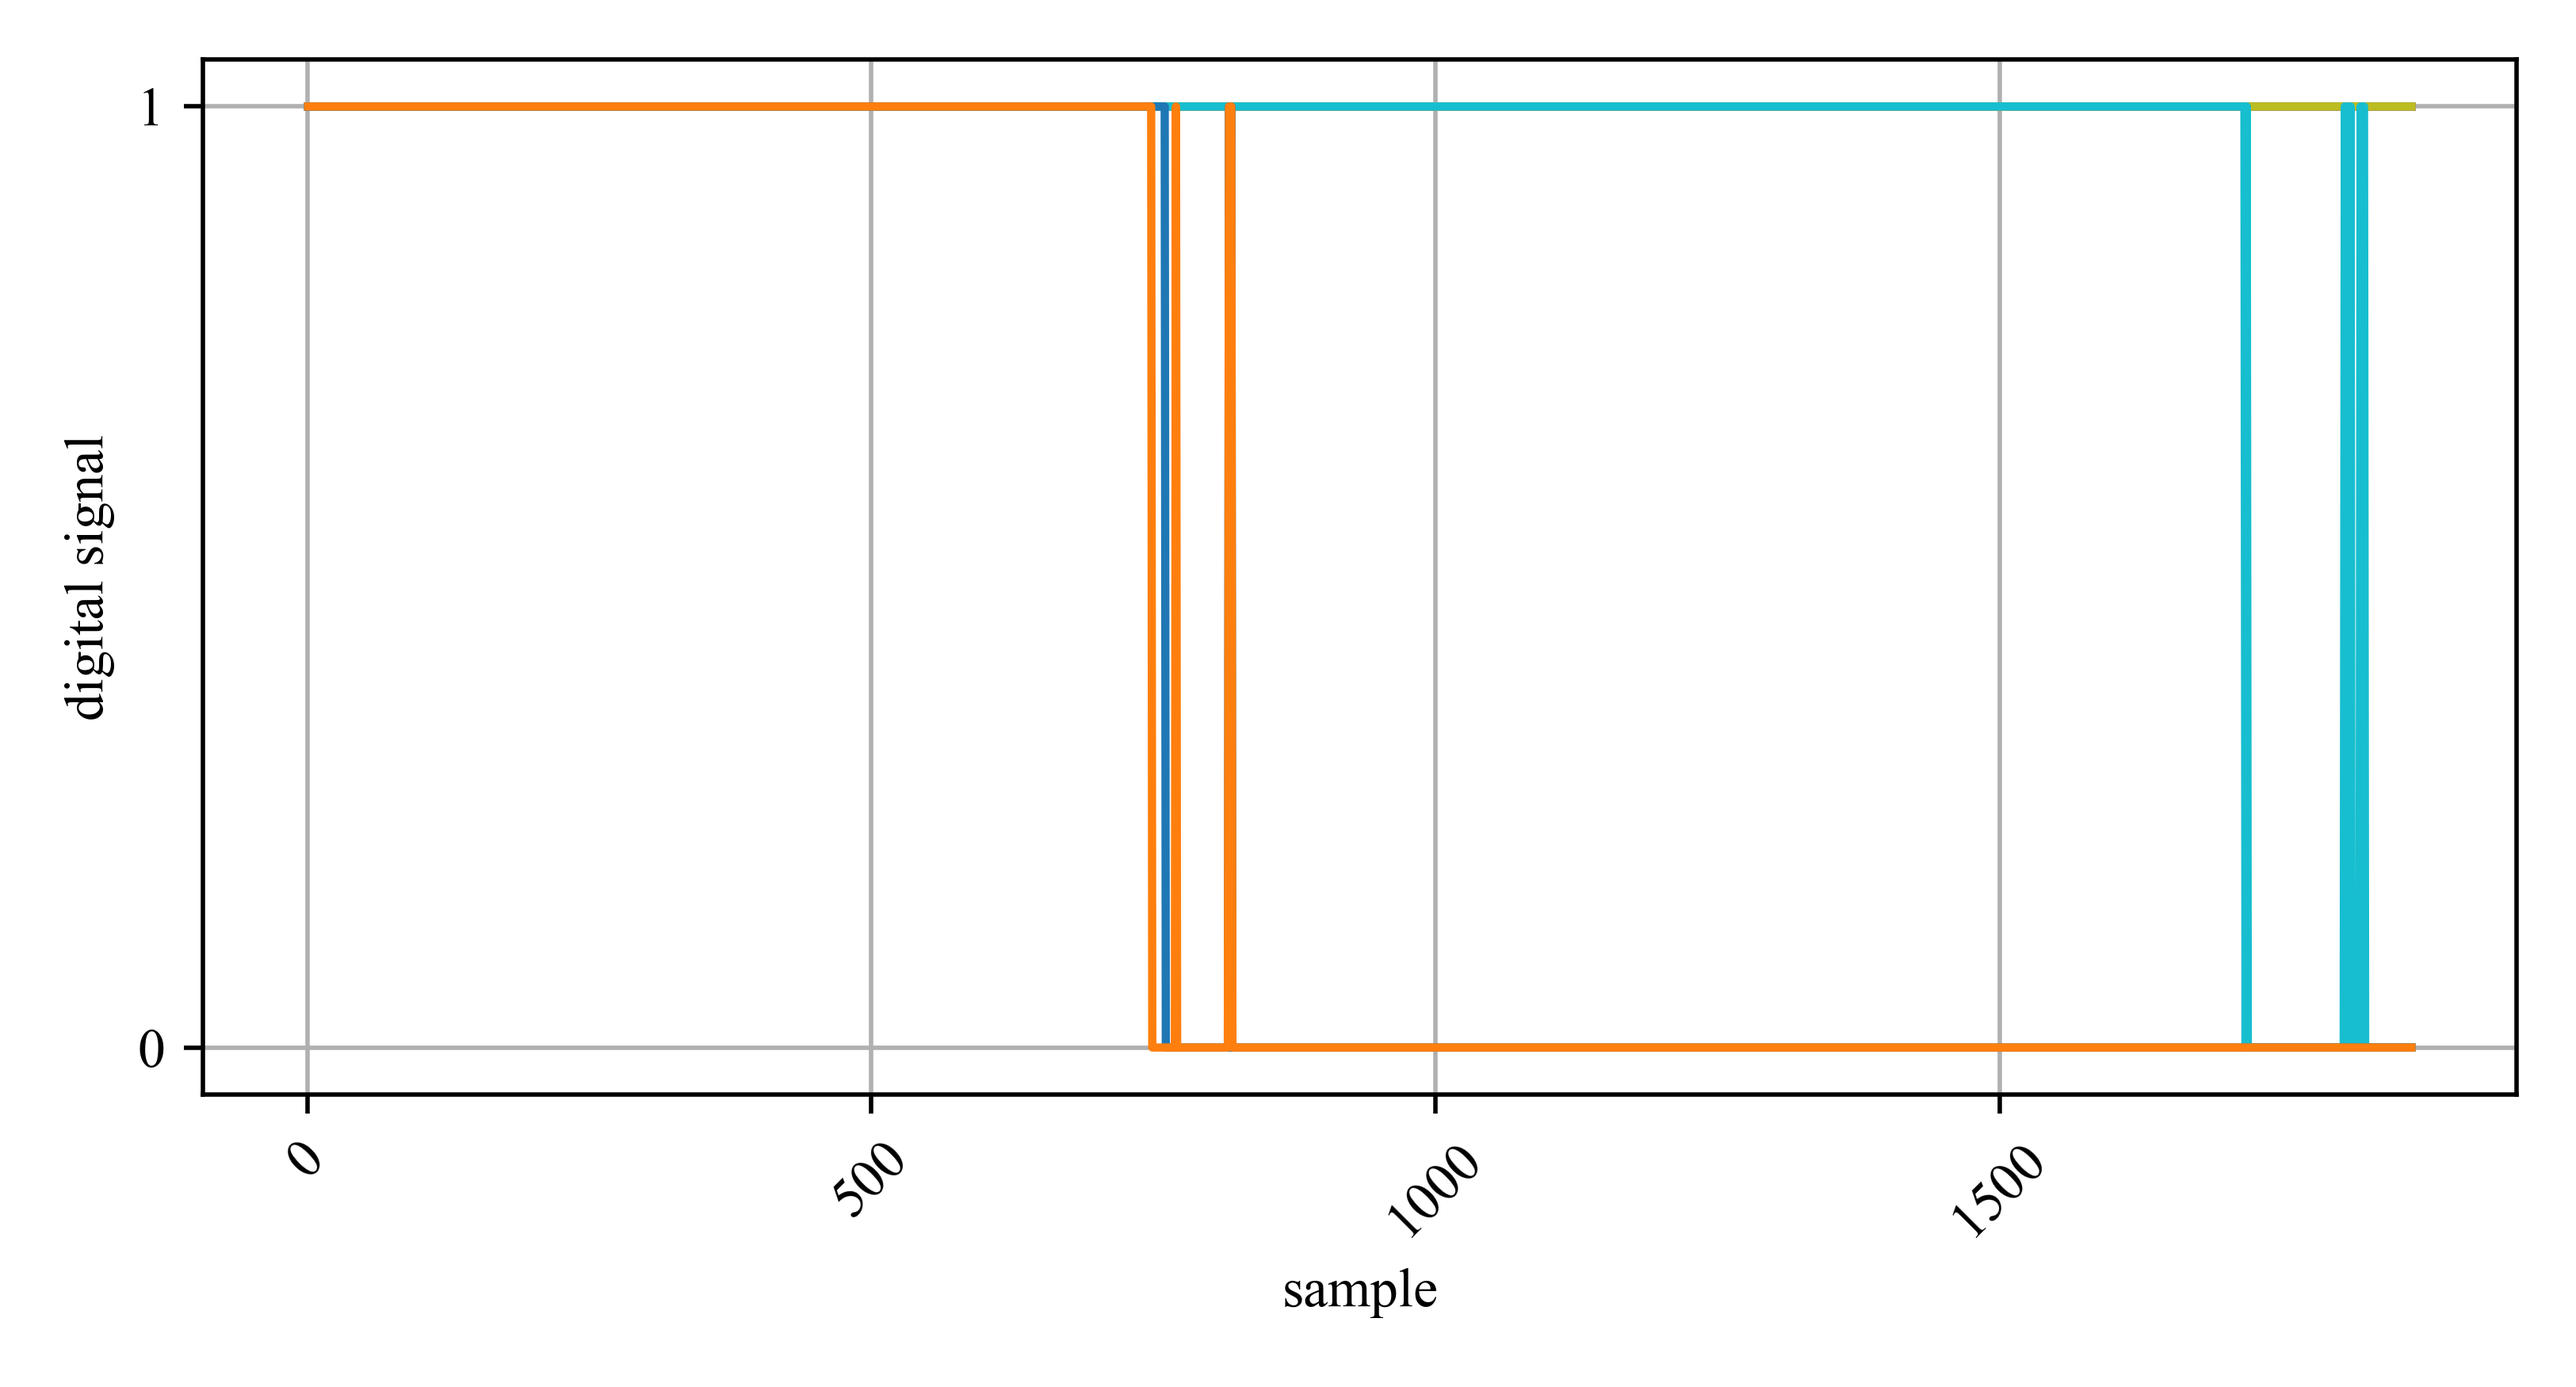
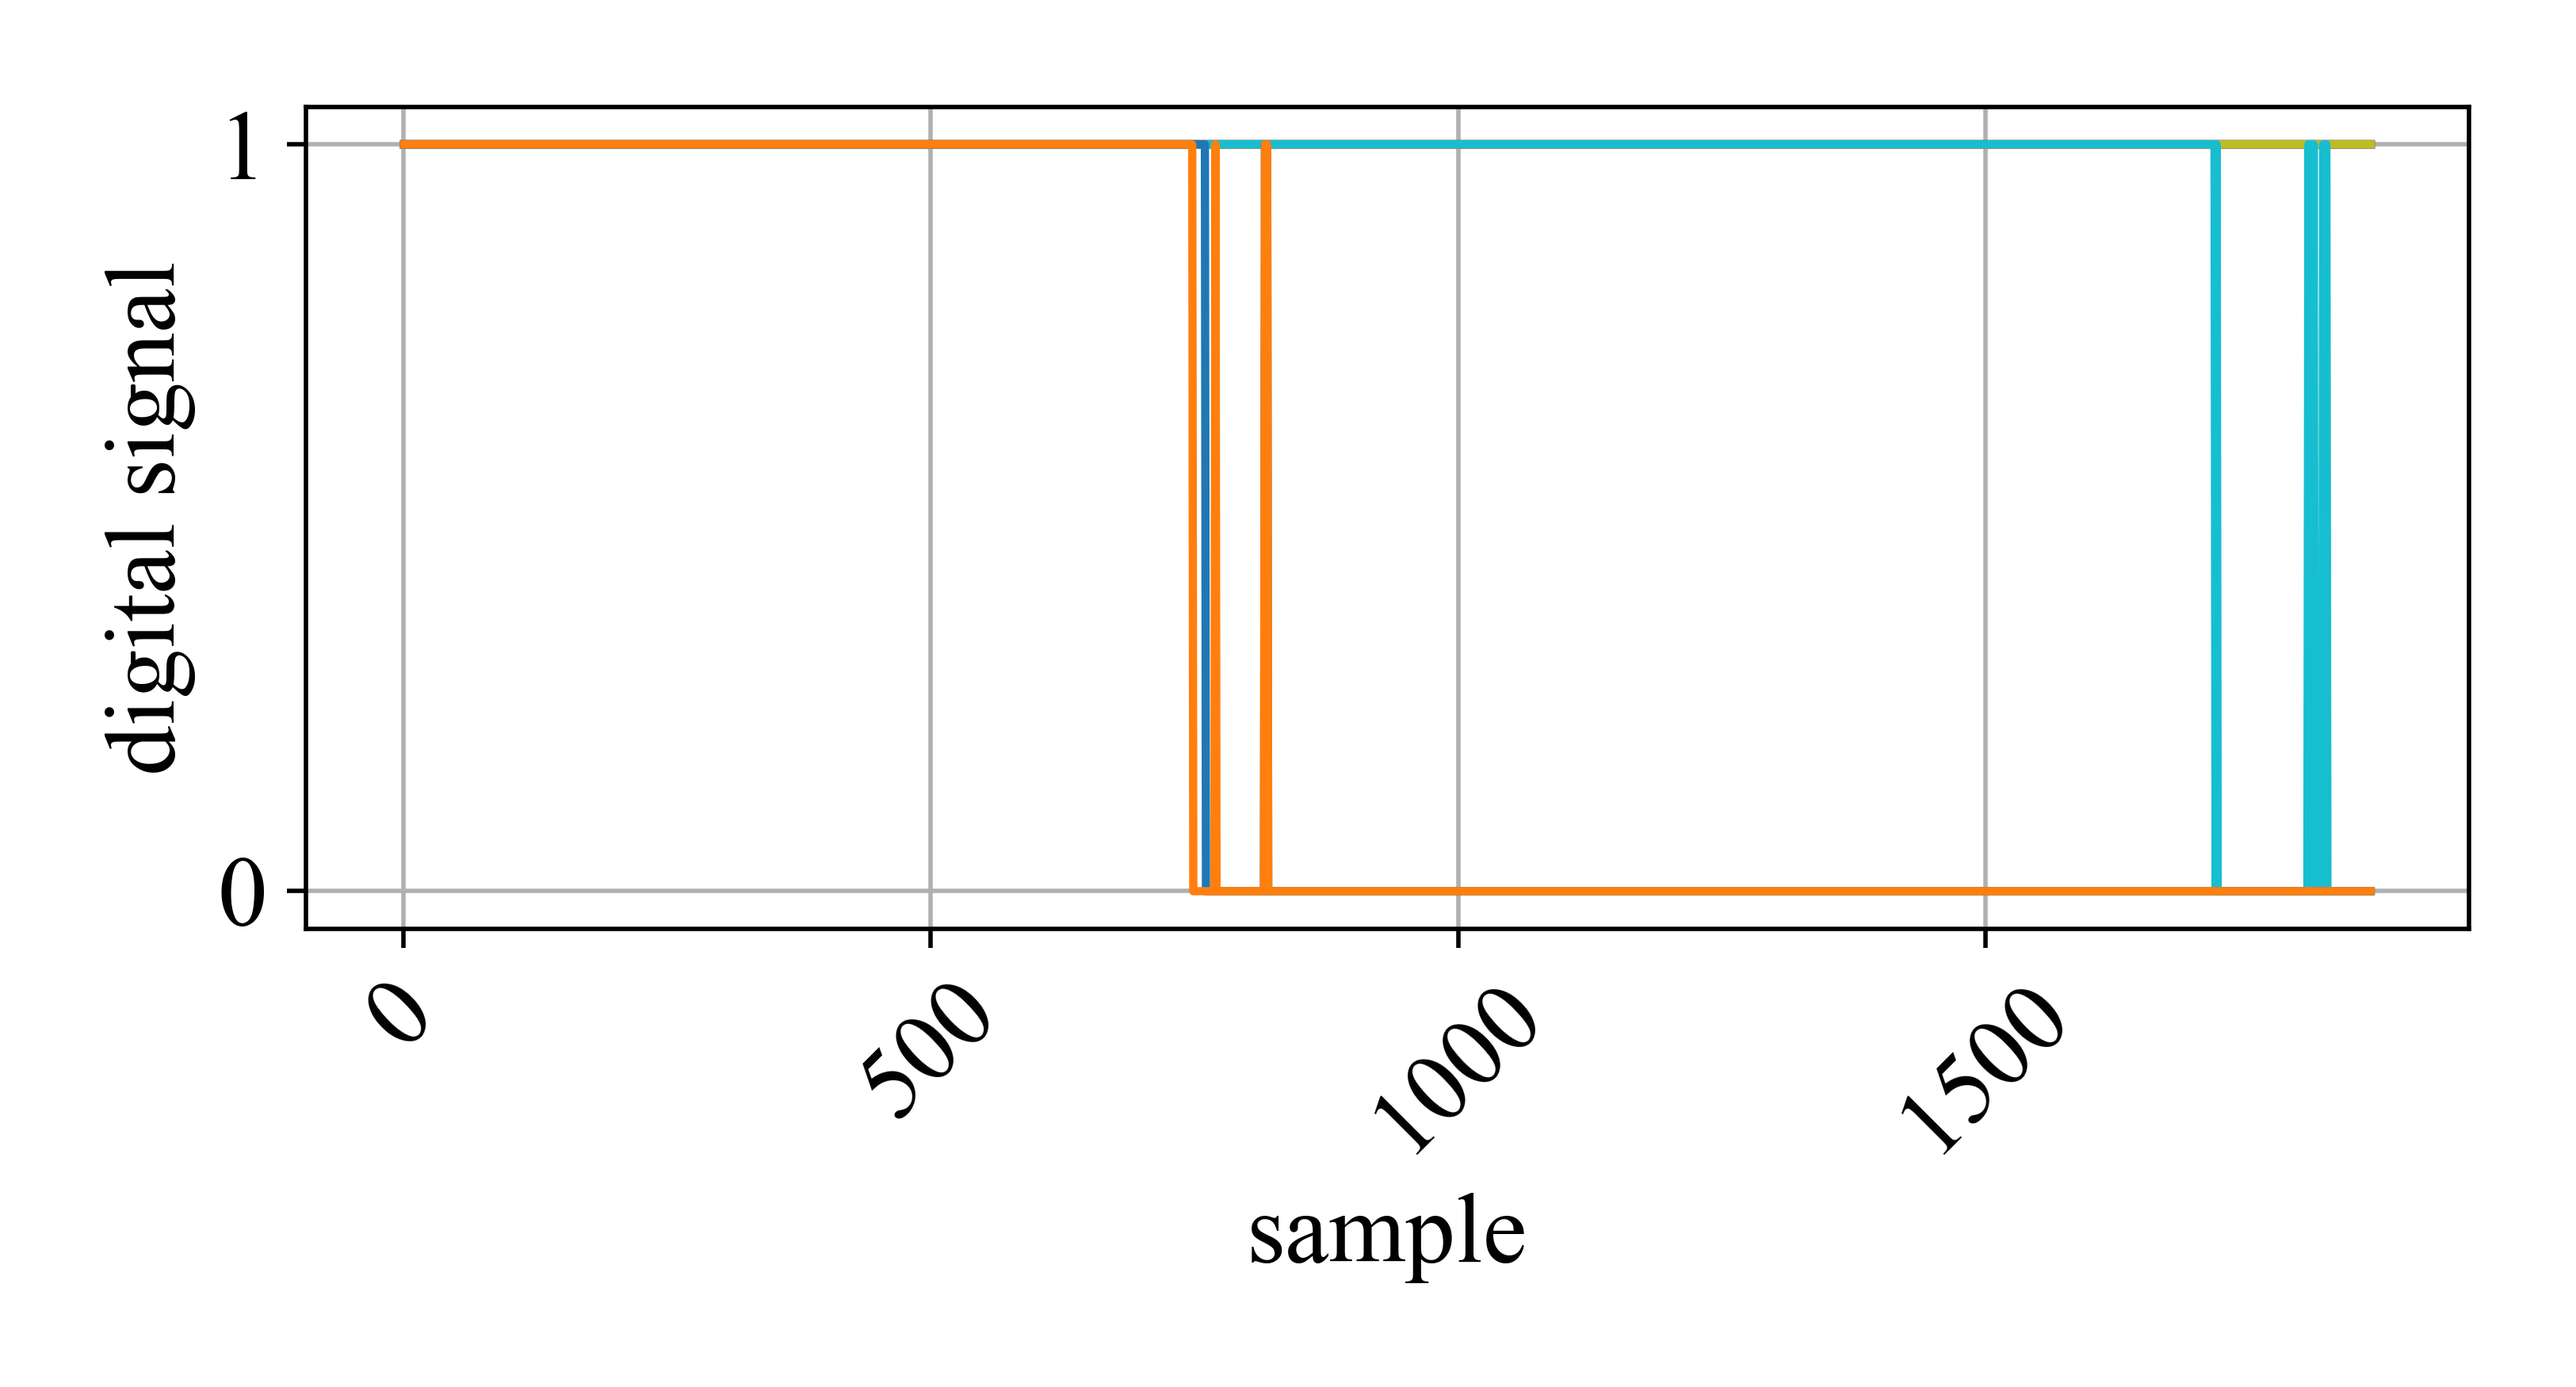
plot materials test data

diff --git a/test_data/mts_testing/test2_13_12.py b/test_data/mts_testing/test2_13_12.py
@@ -14,7 +14,7 @@ import pandas as pd
 import pylab as pl
 import numpy as np
 plt.rcParams["font.family"] = "Times New Roman"
-#mpl.rcParams.update({'font.size': 14})
+mpl.rcParams.update({'font.size': 18})
 
 import IPython as IP
 IP.get_ipython().magic('reset -sf')
